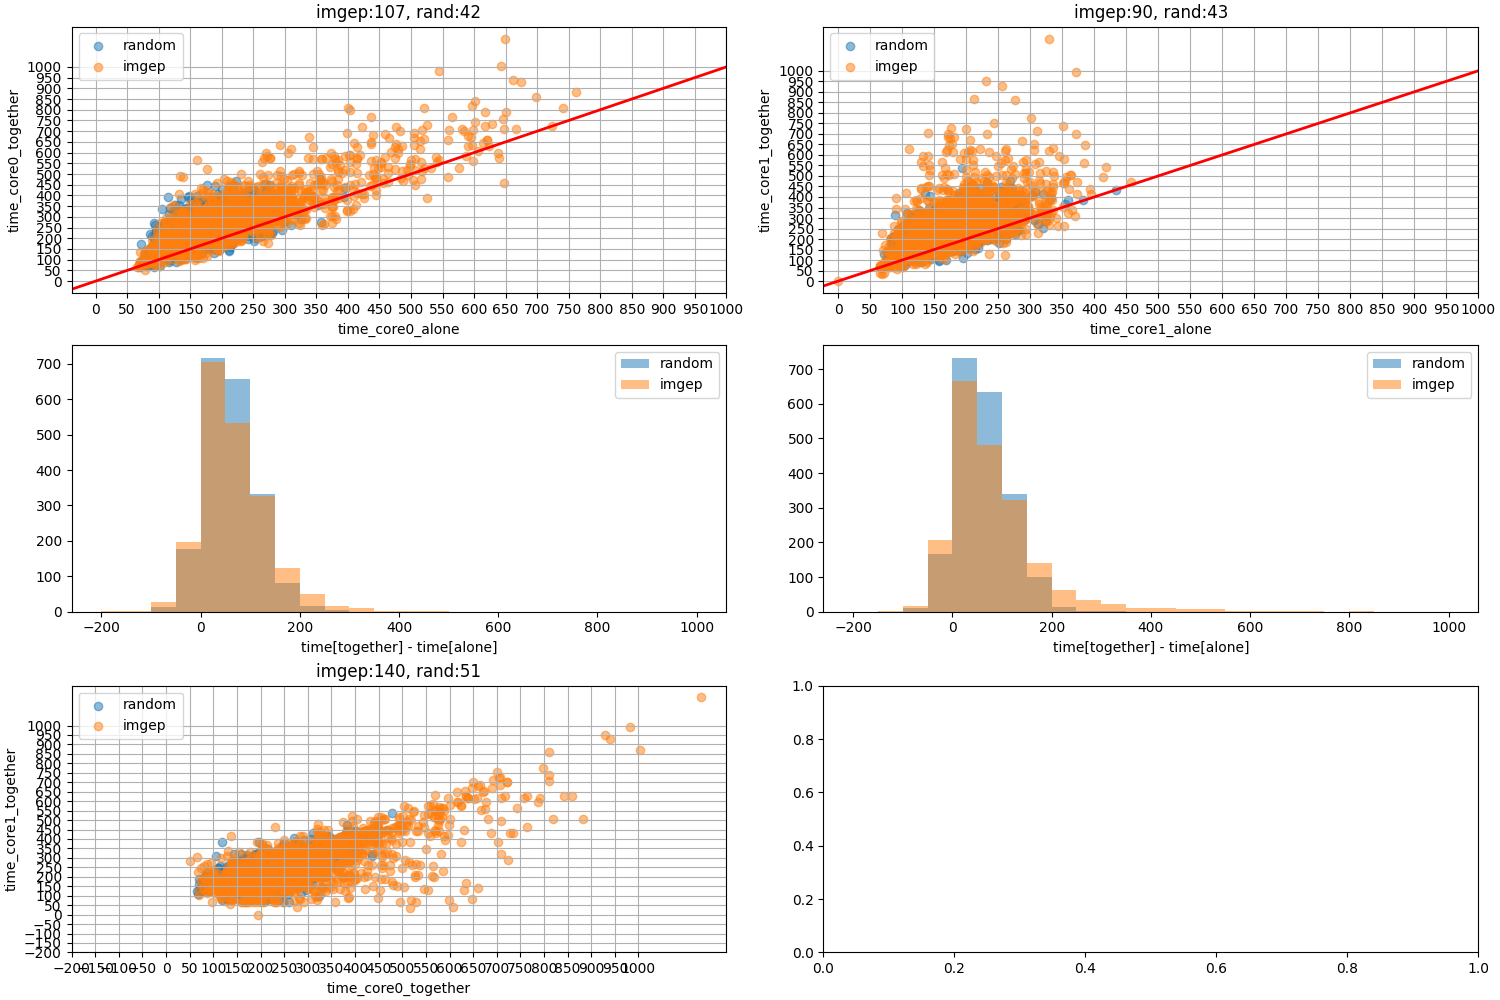
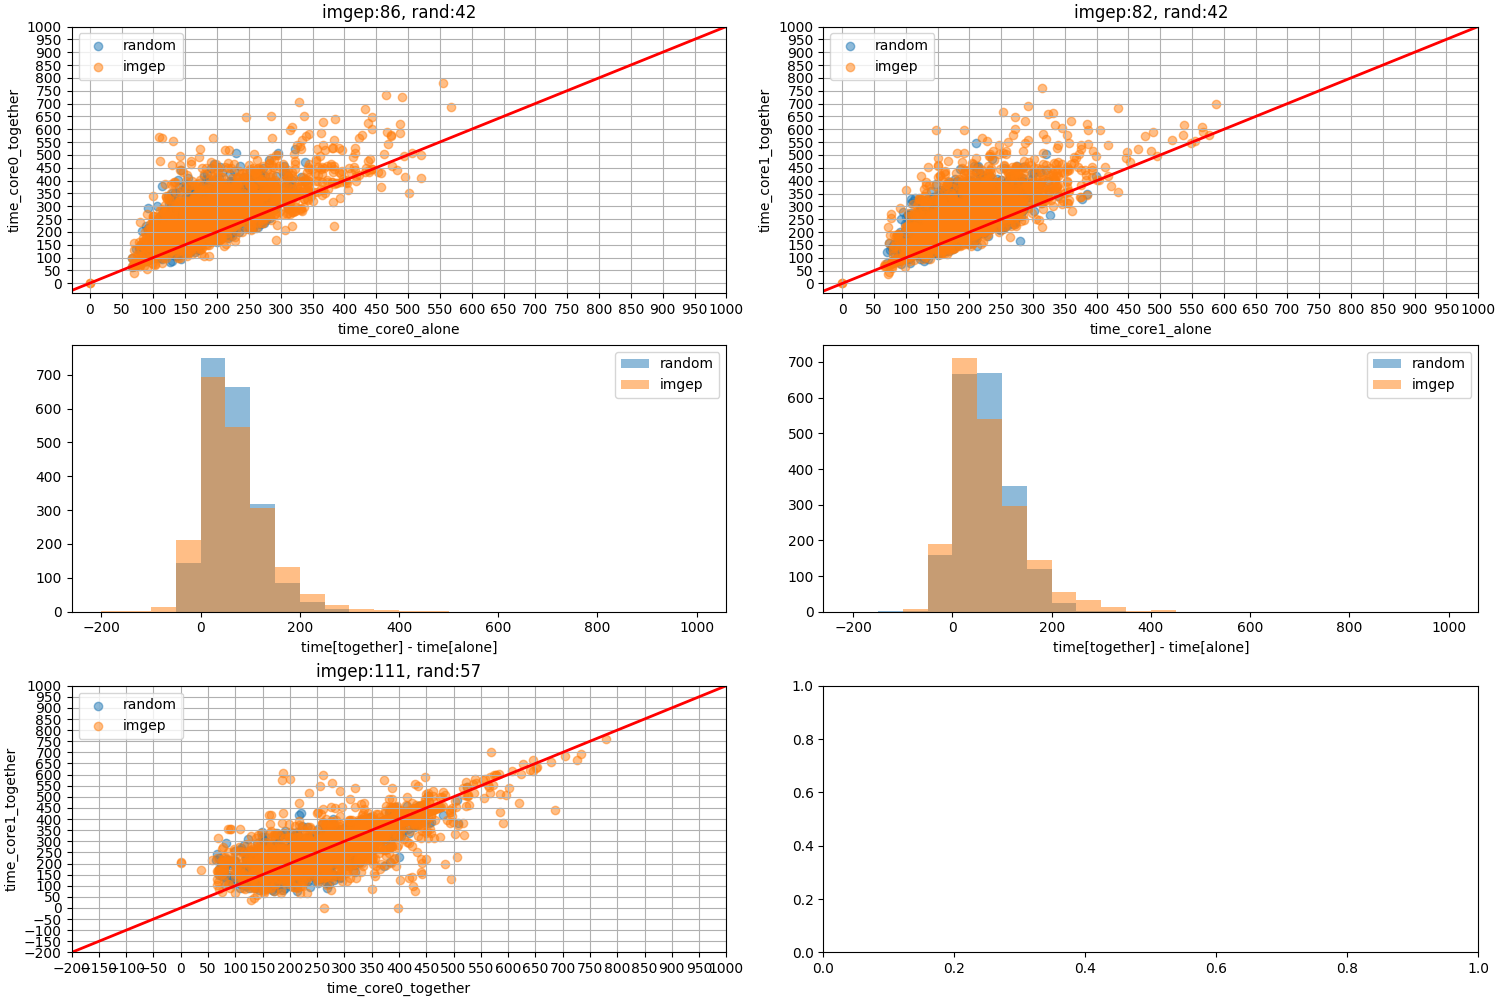
update

diff --git a/test.py b/test.py
@@ -12,8 +12,8 @@ import matplotlib.pyplot as plt
 from visu import representation, comparaison
 from exploration.imgep.intrinsic_reward import IR
 if __name__=="__main__":
-    N = int(30)
-    N_init = 5
+    N = int(2000)
+    N_init = 500
     #N = 10
     #N_init = 3
     max_len = 1000  
@@ -39,10 +39,10 @@ if __name__=="__main__":
         rand()
         #save results
         H_rand.save_pickle(f"history_rand_N_{N}")
-    if False:
+    if True:
         with open(f"data/history_rand_N_{N}_{0}", "rb") as f:
             content_random = pickle.load(f)
-    for k in [3]:
+    for k in []:
         print(f"start: k = {k}, N={N}")
         G = GoalGenerator(num_bank = num_bank, modules = modules)
         Pi = OptimizationPolicykNN(k=k,mutation_rate=mutation_rate,max_len=50)
@@ -53,7 +53,7 @@ if __name__=="__main__":
         H_imgep.save_pickle(f"history_kNN_{k}_N_{N}")
         print(f"done")
     N = 2000
-    if False:
+    if True:
         for k_moins_un,name in enumerate([f"data/history_kNN_{k}_N_{N}_0" for k in [1,2,3]]):
             with open(name, "rb") as f:
                 content_imgep = pickle.load(f)

diff --git a/exploration/imgep/imgep.py b/exploration/imgep/imgep.py
@@ -45,9 +45,9 @@ class IMGEP:
                     goal = self.G(self.H, module = module)
                 parameter = self.Pi(goal,self.H, module)
             observation = self.env(parameter)
-            if i>=self.N_init:
-                self.ir(parameter=parameter,
-                        observation=observation,
-                        goal=goal,
-                        module = module)
+            #if i>=self.N_init:
+            #    self.ir(parameter=parameter,
+            #            observation=observation,
+            #            goal=goal,
+            #            module = module)
             self.H.store({"program":parameter}|observation)

diff --git a/visu.py b/visu.py
@@ -111,6 +111,7 @@ def comparaison(content_random, content_imgep = None, name = None):
     axs[2,0].scatter(content_imgep["time_core0_together"],content_imgep["time_core1_together"], label="imgep", alpha = .5)
     axs[2,0].set_xlabel("time_core0_together")
     axs[2,0].set_ylabel("time_core1_together")
+    axs[2,0].axline(xy1=(0, 0), slope=1, color='r', lw=2)
     axs[2,0].legend()
     axs[2,0].set_xticks(bins)
     axs[2,0].set_yticks(bins)

diff --git a/exploration/imgep/mutation.py b/exploration/imgep/mutation.py
@@ -36,7 +36,7 @@ def mutate_instructions(instructions:list[dict], mutation_rate=0.3):
     #exit()
     
     for _ in range(num_mutations):
-        mutation_type = random.choice(['change'])
+        mutation_type = random.choice(['change','delete', 'add'])
         
         if mutation_type == 'change' and len(mutated) > 0:
             idx = random.randint(0, len(mutated) - 1)
